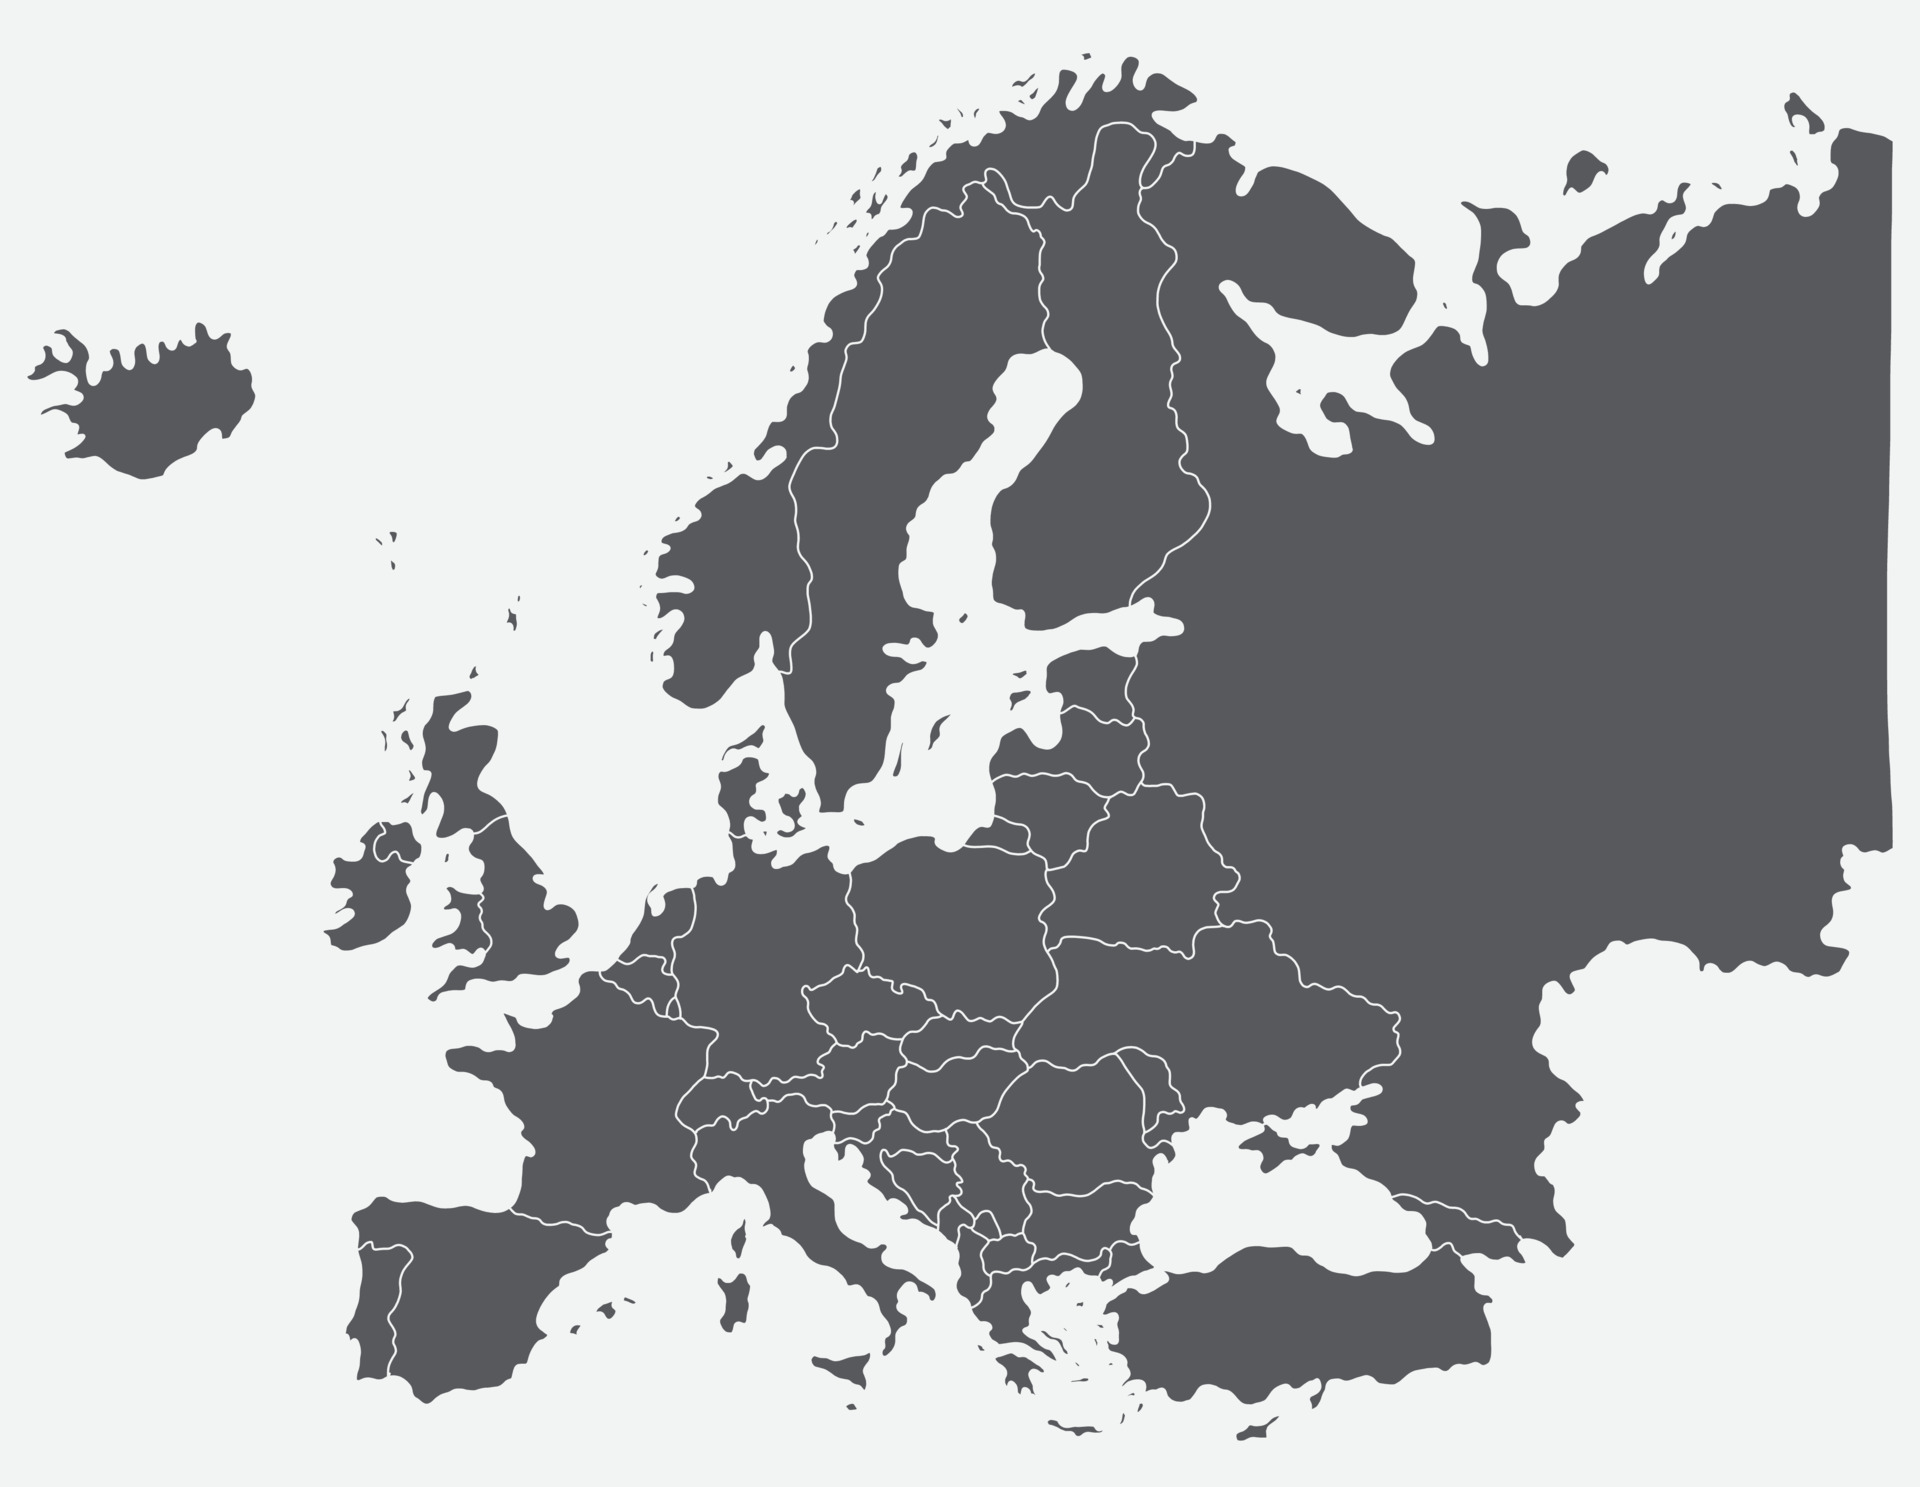
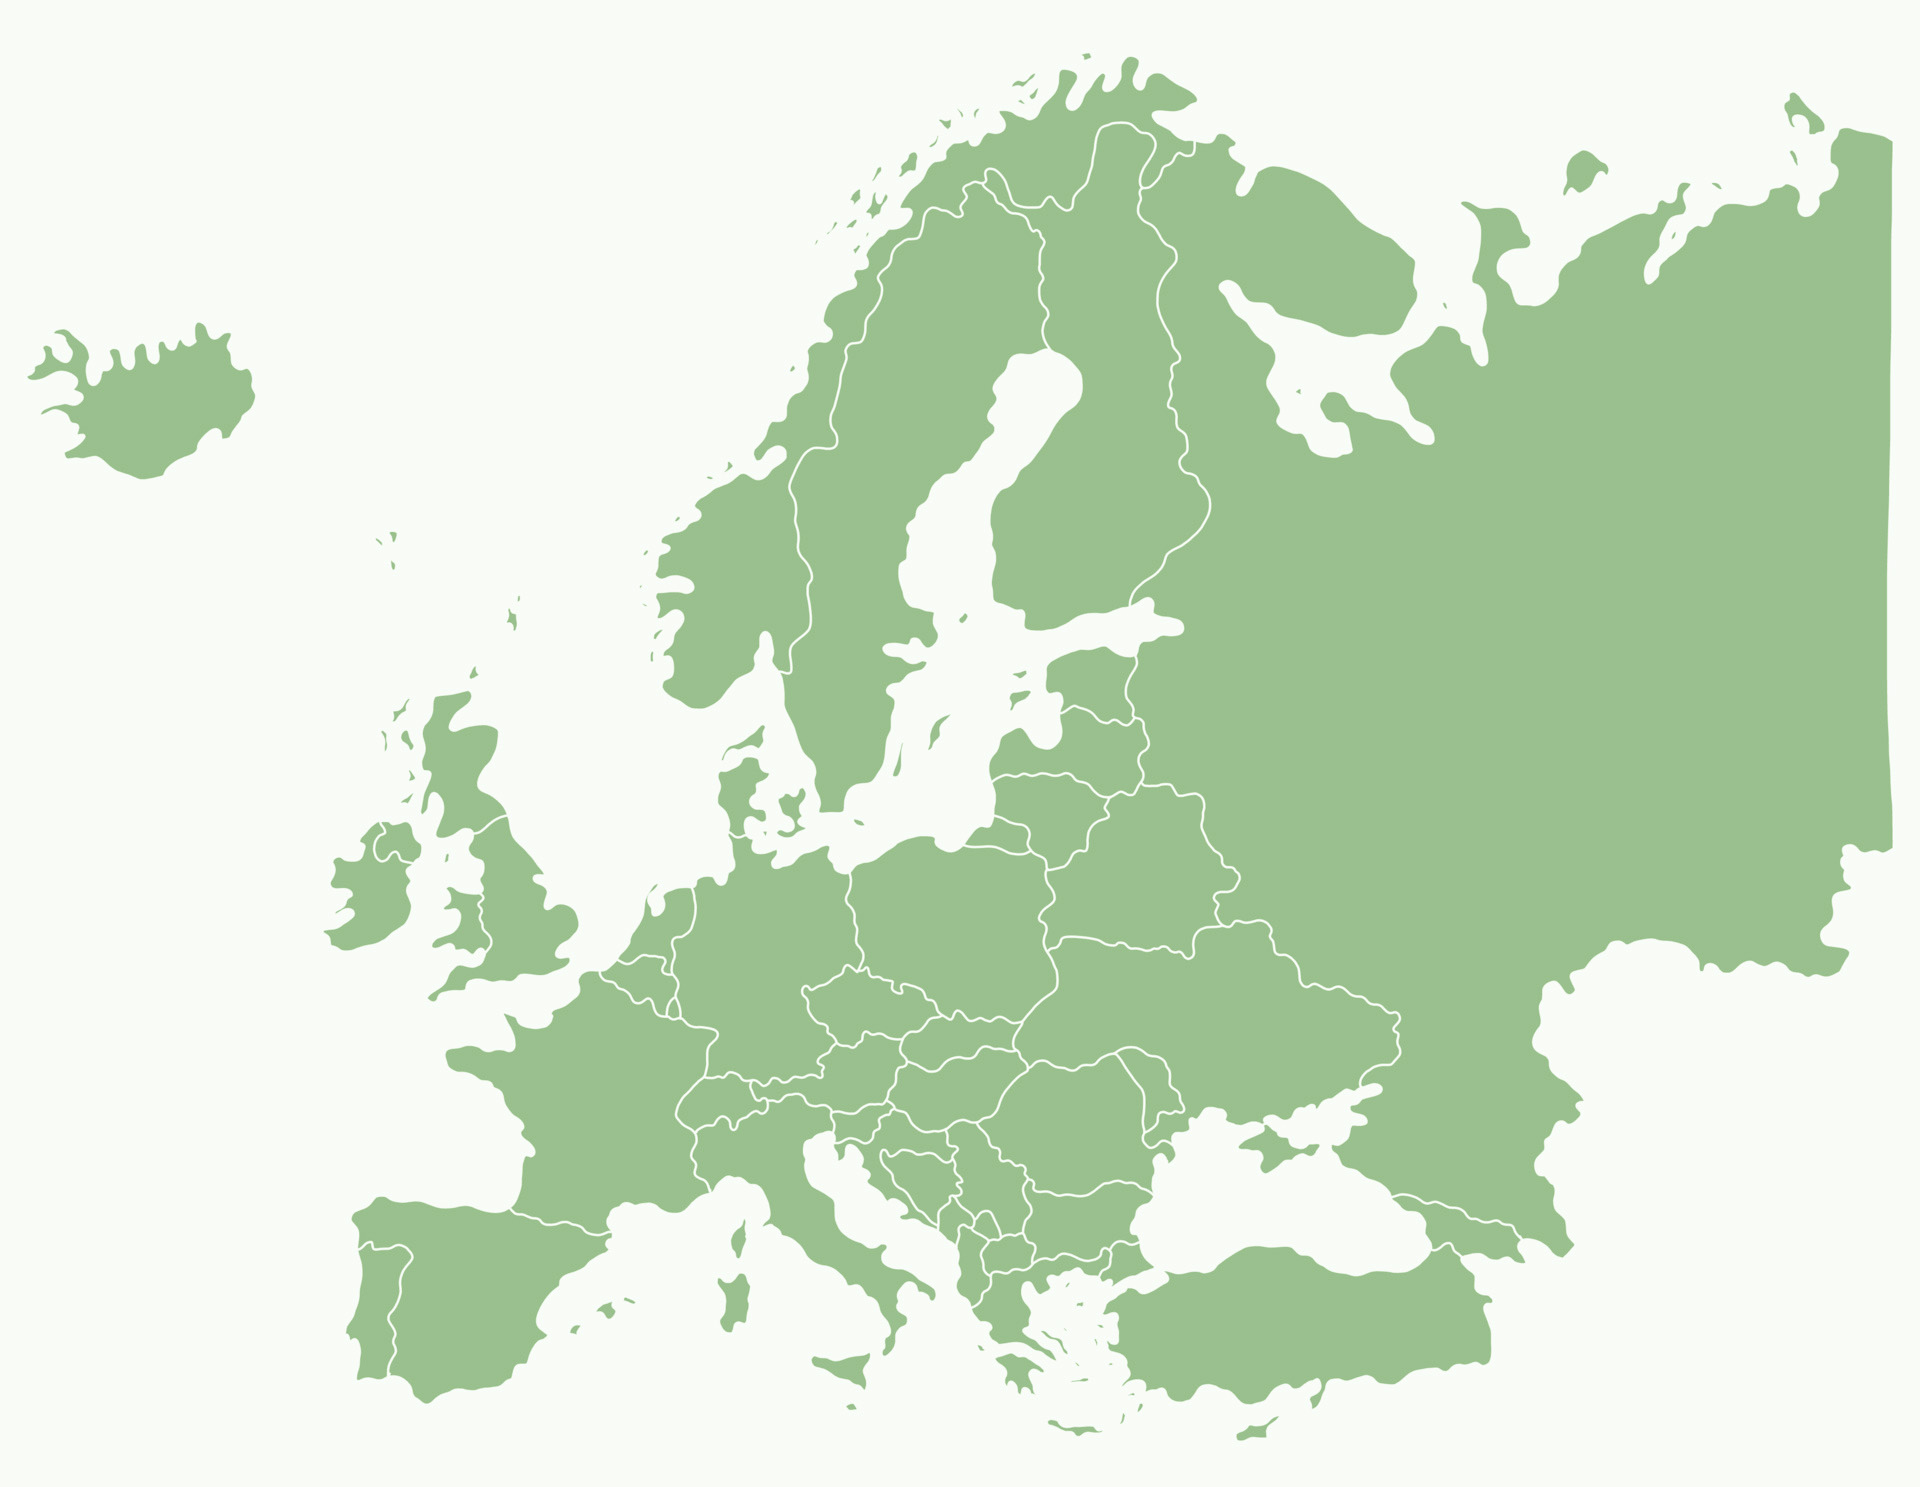
updated images and europe background colour

diff --git a/styles.css b/styles.css
@@ -328,7 +328,7 @@ h1 {
   top: 50px;
   height: 490px;
   width: 950px;
-  background-color: rgb(242, 244, 243);
+  background-color: rgb(249, 251, 246);
   background-image: url(/images/europe_map.jpg);
   background-size: 39em;
   background-repeat: no-repeat;
